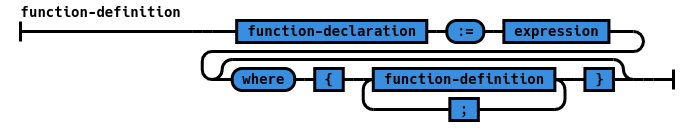
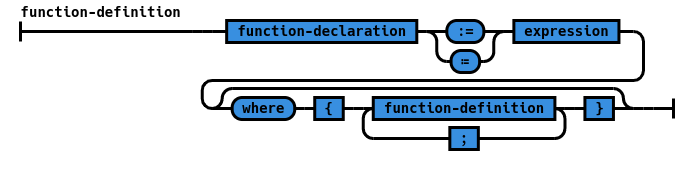
put missing unicode variant for ':='

Changed region(s): [[0.0303, 0.0857, 1.0, 0.9143], [0.0303, 0.0286, 0.2727, 0.1429]]

diff --git a/railroad-diagrams.py b/railroad-diagrams.py
@@ -620,7 +620,11 @@ def zilch_function_definition():
 	inner = Stack(
 		Sequence(
 			NonTerminal('function-declaration'),
-			Terminal(':='),
+			Choice(
+				0,
+				Terminal(':='),
+				Terminal('≔')
+			),
 			NonTerminal('expression')
 		),
 		Optional(
@@ -1519,4 +1523,4 @@ def zilch_mixfix_type():
 	return mk_diagram2('mixfix', inner)
 
 
-zilch_lambda().writeSvg(sys.stdout.write)
+zilch_function_definition().writeSvg(sys.stdout.write)
